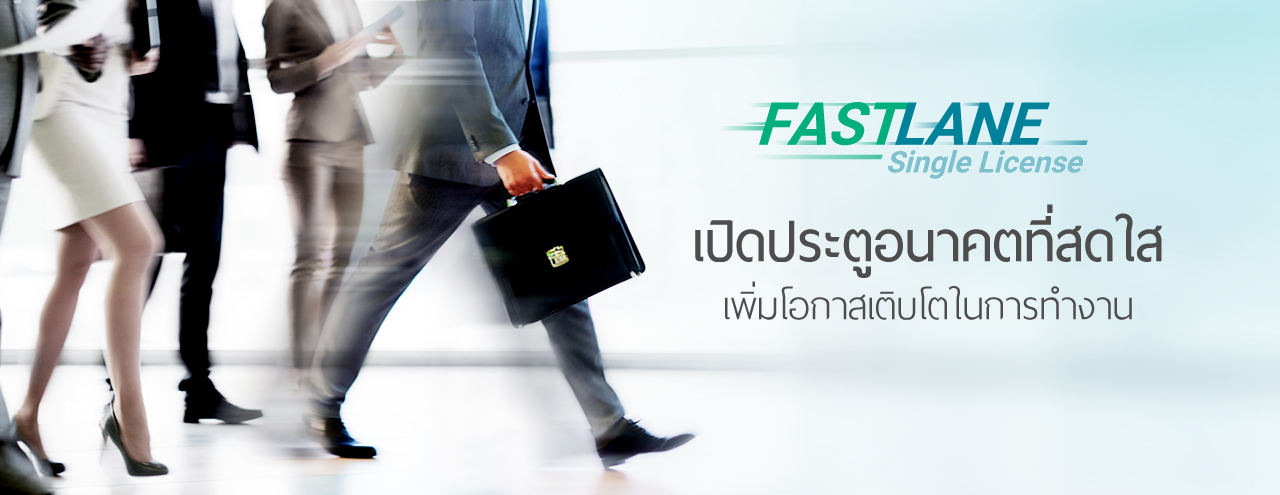
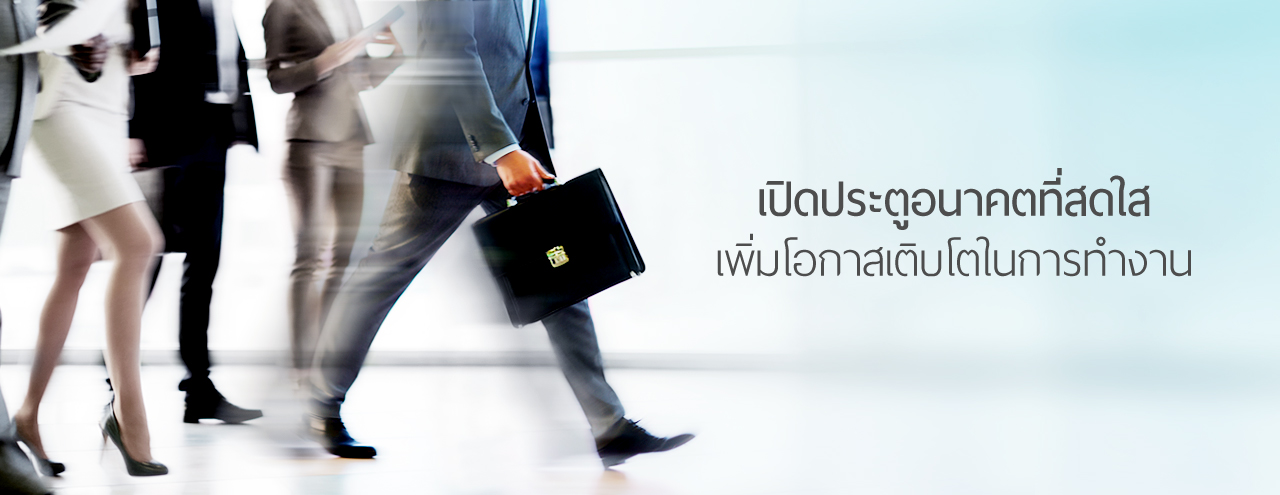
#comment2 index

Changed region(s): [[0.5312, 0.1818, 0.9375, 0.6667]]

diff --git a/css/style.css b/css/style.css
@@ -25,20 +25,26 @@ body {
 a {
     text-decoration: none;
 }
-.bx-wrapper .bx-prev{
+
+.bx-wrapper .bx-prev {
     right: 10px;
     transform: rotate(-180deg);
     background: url(../img/controls.png) no-repeat !important;
     background-size: 100% 100%;
 }
+
 .bx-wrapper .bx-next {
     right: 10px;
     background: url(../img/controls.png) no-repeat !important;
     background-size: 100% 100%;
 }
-.bx-wrapper .bx-next:hover,.bx-wrapper .bx-prev:hover{
+
+.bx-wrapper .bx-next:hover,
+.bx-wrapper .bx-prev:hover {
     opacity: .7;
 }
+
+
 /* Font */
 
 .text_arial {
@@ -79,13 +85,9 @@ a {
     color: #fff;
 }
 
-.banner {
-    
-}
+.banner {}
 
-.banner .banner_in .cmsk_slide {
-
-}
+.banner .banner_in .cmsk_slide {}
 
 nav a {
     color: #555;
@@ -670,7 +672,6 @@ header .header_in nav ul li .btn_green span {
     /*
     background-color: #00A05E;
     max-height: 500px;*/
-
 }
 
 .banner .wrapper {
@@ -679,7 +680,6 @@ header .header_in nav ul li .btn_green span {
 
 .banner .banner_in {
     width: 100%;
-
     position: relative;
     /*overflow: hidden;*/
 }
@@ -791,7 +791,7 @@ header .header_in nav ul li .btn_green span {
     position: absolute;
     z-index: 2;
     top: 72%;
-    right: 21%;
+    right: 19%;
 }
 
 .banner .banner_in #m_seemore {
@@ -908,9 +908,7 @@ ul.bullet {}
 
 ul.bullet li {
     font-size: 1.65em;
-    /*
     background: url("../img/bullet.png") no-repeat left 7px;
-     */
     background-size: 14px;
     padding-left: 1em;
     /*1.3em*/
@@ -927,9 +925,7 @@ ul.bullet li {
 
 .cmsk_row2col_right ul.bullet li {
     font-size: 1.65em;
-     /*
     background: url("../img/bullet_w.png") no-repeat left 7px;
-    */
     background-size: 14px;
     padding-left: 1em;
     /*1.3em*/
@@ -966,6 +962,10 @@ ul.bullet li {
 .cmsk_main_content .cmsk_row1_text p.highlight {
     font-weight: 600;
     font-size: 3em;
+}
+
+.cmsk_main_content .cmsk_row1_text p.highlight img {
+    width: 25%;
 }
 
 .cmsk_main_content .cmsk_row2col {
@@ -1174,6 +1174,15 @@ ul.bullet li {
     .cmsk_row2col_left ul.bullet li {
         font-size: 1.45em;
     }
+    .cmsk_main_content .cmsk_row1_text p.highlight img {
+        width: 35%;
+    }
+}
+
+@media(max-width: 500px) {
+    .cmsk_main_content .cmsk_row1_text p.highlight img {
+        width: 60%;
+    }
 }
 
 @media(max-width: 800px) {
@@ -1354,6 +1363,62 @@ ul.bullet li {
     }
     .cmsk_main_content .cmsk_row3col .text_headline {
         text-align: left;
+    }
+}
+
+.cmsk_row_re .cmsk_main_content .cmsk_row1_text p.text_description {
+    font-size: 1.65em;
+}
+
+.cmsk_row_re .cmsk_main_content .cmsk_row1_text .text_description {
+    width: 50%;
+    margin: 0 auto;
+}
+
+ul.list_cmsk_row_re {}
+
+ul.list_cmsk_row_re li {
+    width: 16%;
+    display: inline-block;
+    padding: 15px;
+    vertical-align: top;
+}
+
+ul.list_cmsk_row_re li img {
+    padding: 20px;
+    border: 2px solid #A5D3DB;
+    border-radius: 50%;
+    width: 35%;
+}
+
+ul.list_cmsk_row_re li p {
+    font-size: 1.65em !important;
+    font-weight: bold !important;
+}
+
+@media(max-width: 800px) {
+    .cmsk_row_re .cmsk_main_content .cmsk_row1_text .text_description {
+        width: 70%;
+        margin: 0 auto;
+    }
+    ul.list_cmsk_row_re li {
+        width: 40%;
+    }
+    ul.list_cmsk_row_re li img {
+        width: 25%;
+    }
+}
+
+@media(max-width: 500px) {
+    .cmsk_row_re .cmsk_main_content .cmsk_row1_text .text_description {
+        width: 90%;
+        margin: 0 auto;
+    }
+    ul.list_cmsk_row_re li {
+        width: 80%;
+    }
+     ul.list_cmsk_row_re li img {
+        width: 25%;
     }
 }
 

diff --git a/index.php b/index.php
@@ -65,8 +65,8 @@ include('header.php');
     <div class="cmsk_row bg_white">
         <!-- cmsk_row1_text -->
         <div class="cmsk_row1_text text_thaisans_neue">
-            <p class="highlight">FASTLANE Single Licens</p>
-            <p>คอร์สเรียนผ่านวีดีโอออนไลน์</p>
+            <p class="highlight"><img src="img/fastlane_logo.png" alt=""></p>
+            <p>คอร์สเดียวเน้น ๆ ที่จะทำให้คุณสอบผ่าน</p>
         </div>
         <!-- end cmsk_row1_text -->
     </div>
@@ -142,7 +142,8 @@ include('header.php');
                 <div class="cmsk_row3col_box">
                     <ul class="bullet">
                         <li>
-                            <p class="bullet_title">เรียนได้ทุกที่ทุกเวลา</p></li>
+                            <p class="bullet_title">เรียนได้ทุกที่ทุกเวลา</p>
+                        </li>
                     </ul>
                 </div>
                 <!-- end cmsk_row3col_box -->
@@ -151,7 +152,8 @@ include('header.php');
                     <ul class="bullet">
                         <li>
                             <p class="bullet_title">ใช้ได้กับทุกอุปกรณ์</p>
-                            <br></li>
+                            <br>
+                        </li>
                     </ul>
                 </div>
                 <!-- end cmsk_row3col_box -->
@@ -170,41 +172,45 @@ include('header.php');
         <!-- end wrapper -->
     </div>
     <!-- end cmsk_row3col -->
-    <!-- cmsk_row1_4col -->
-    <div class="cmsk_row1_4col bg_white">
-        <!-- wrapper -->
-        <div class="wrapper">
-            <!-- cmsk_row1_4col_wrap -->
-            <div class="cmsk_row1_4col_wrap">
-                <!-- cmsk_row1_4col_left -->
-                <div class="cmsk_row1_4col_left">
-                    <p class="text_subhead text_black">รายละเอียดคอร์ส</p>
+    <div class="cmsk_row bg_white cmsk_row_re">
+        <!-- cmsk_row1_text -->
+        <div class="cmsk_main_content">
+            <div class="cmsk_row1_text text_thaisans_neue">
+                <p class="highlight">รายละเอียดคอร์ส</p>
+                <p class="text_description">หลักสูตรสำหรับการเตรียมสอบใบอนุญาตผู้แนะนำการลงทุนด้านหลักทรัพย์ (Securities Investment Consultant, SIC) หรือ Single License</p>
+                <br>
+                <br>
+                <ul class="list_cmsk_row_re">
+                    <li><img src="img/ico_01.png" alt="">
+                        <p>วิดีโอบรรยายโดย วิทยากร Dr.Job</p>
+                    </li>
+                    <li><img src="img/ico_02.png" alt="">
+                        <p>หนังสือประกอบการเรียน ที่มีโจทย์และเนื้อหาที่สำคัญ
+                        </p>
+                    </li>
+                    <li><img src="img/ico_03.png" alt="">
+                        <p>ข้อสอบจำลอง FSIM</p>
+                    </li>
+                    <li><img src="img/ico_04.png" alt="">
+                        <p>ระบบตอบข้อซักถาม</p>
+                    </li>
+                </ul>
+                <br>
+                <br>
+                <p class="text_description">ให้คุณมั่นใจได้ว่าการสอบผ่าน Single license ไม่ใช่เรื่องยาก</p>
+                <br>
+                <div class="button_wrap">
+                    <!-- <a class="btn btn_black" href="#"><span>ดูต่อทั้งหมด</span></a> -->
+                    <a class="btn btn_green_long" href="course.php"><span>อ่านรายละเอียด</span></a>
+                    <span class="btn_regis main btn_next"><a class="btn btn_green btn_regis" href="register.php"><span>สมัครเรียน</span></a>
+                    </span>
                 </div>
-                <!-- end cmsk_row1_4col_left -->
-                <!-- cmsk_row1_4col_right -->
-                <div class="cmsk_row1_4col_right">
-                    <!-- text_description -->
-                    <div class="text_description">
-                        <p>หลักสูตรครอบคลุมเนื้อหาทั้งหมดสำหรับการเตรียมสอบใบอนุญาตผู้แนะนำการลงทุนด้านหลักทรัพย์ (Securities Investment Consultant, SIC) หรือที่เรียกกันอย่างไม่เป็นทางการว่า Single License ซึ่งเป็นใบอนุญาตสำหรับผู้ประกอบวิชาชีพเกี่ยวกับการซื้อขายหลักทรัพย์ เช่น หุ้น ตราสารหนี้ กองทุนรวม</p>
-                        <br>
-                        <p>ด้วยเนื้อหาเข้มข้นและประสบการณ์ที่สั่งสมมาอย่างยาวนานของผู้สอน ให้คุณมั่นใจได้ว่าการสอบผ่าน Single License ไม่ใช่เรื่องยาก และยังสามารถเรียนได้อย่างสะดวก ทุกที่ ทุกเวลา</p>
-                    </div>
-                    <!-- end text_description -->
-                    <!-- button_wrap -->
-                    <div class="button_wrap">
-                        <!-- <a class="btn btn_black" href="#"><span>ดูต่อทั้งหมด</span></a> -->
-                        <a class="btn btn_green_long" href="course.php"><span>อ่านรายละเอียด</span></a>
-                        <span class="btn_regis main btn_next"><a class="btn btn_green btn_regis" href="register.php"><span>สมัครเรียน</span></a>
-                        </span>
-                    </div>
-                    <!-- end button_wrap -->
-                </div>
-                <!-- end cmsk_row1_4col_right -->
             </div>
-            <!-- end cmsk_row1_4col_wrap -->
+            <!-- end cmsk_row1_text -->
         </div>
-        <!-- end wrapper -->
     </div>
+    <!-- cmsk_row1_4col -->
+
     <!-- end cmsk_row1_4col -->
     <div class="section">
         <div class="wrapper">

diff --git a/header.php b/header.php
@@ -11,6 +11,9 @@
             <a class="btn btn_green btn_regismobile main btn_regis" href="register.php"><span>สมัครเรียน</span></a>
             <div class="btn_m_menu" id="mobile_menu">
                 <ul>
+                 <li>
+                        <p><a <?php if($page=="home" ) echo( 'class="active"'); ?> href="index.php">หน้าแรก</a></p>
+                    </li>
                     <li>
                         <p><a <?php if($page=="course" ) echo( 'class="active"'); ?> href="course.php">คอร์ส</a></p>
                     </li>
